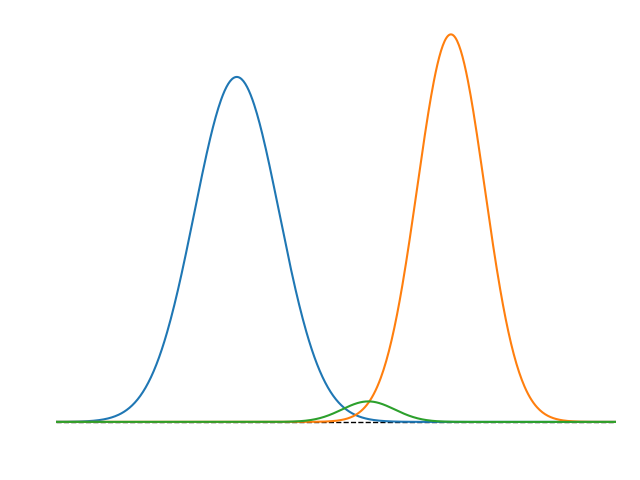
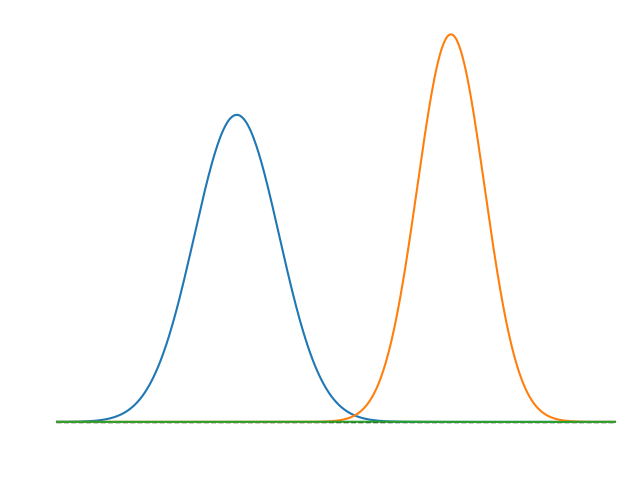
intermediate update

diff --git a/code.py b/code.py
@@ -35,9 +35,11 @@ prior_raw       = np.exp(-(mu0 - y_list)**2 / (2 * sigma0**2))
 observed_raw    = np.exp(-(x   - y_list)**2 / (2 * sigma **2))
 posterior_raw   = np.exp(-.5*((y_list - mu0)**2 / sigma0**2 + (y_list - x)**2 / sigma**2))
 
-prior_modifier      = 1 / np.sqrt(2 * np.pi * sigma0)
-observed_modifier   = 1 / np.sqrt(2 * np.pi * sigma)
-posterior_modifier  = 1 / np.sqrt(2 * np.pi * posterior_raw.std())
+
+prior_modifier      = 1 / (sigma0 * np.sqrt(2 * np.pi))
+observed_modifier   = 1 / (sigma  * np.sqrt(2 * np.pi))
+posterior_modifier  = 1 / (posterior_raw.std() * np.sqrt(2 * np.pi))
+
 
 prior       = prior_raw     * prior_modifier
 observed    = observed_raw  * observed_modifier